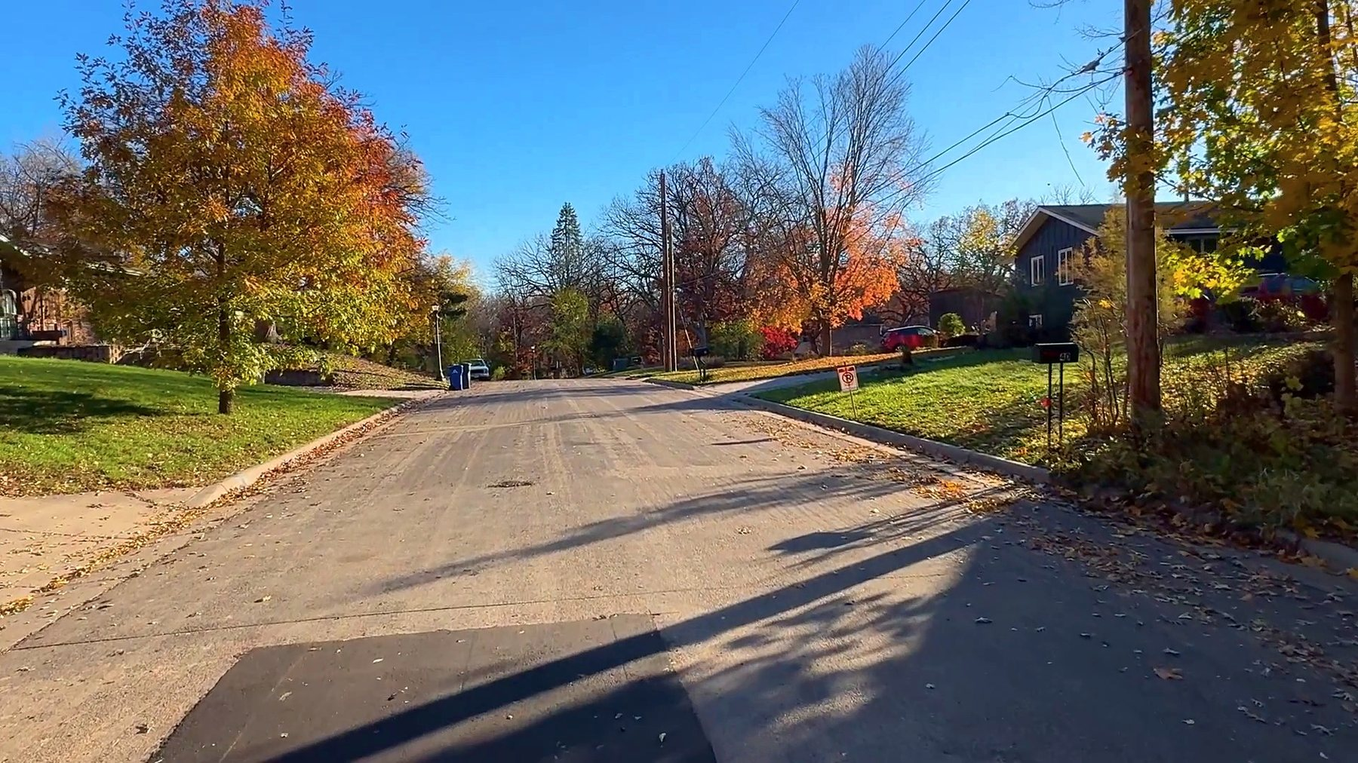
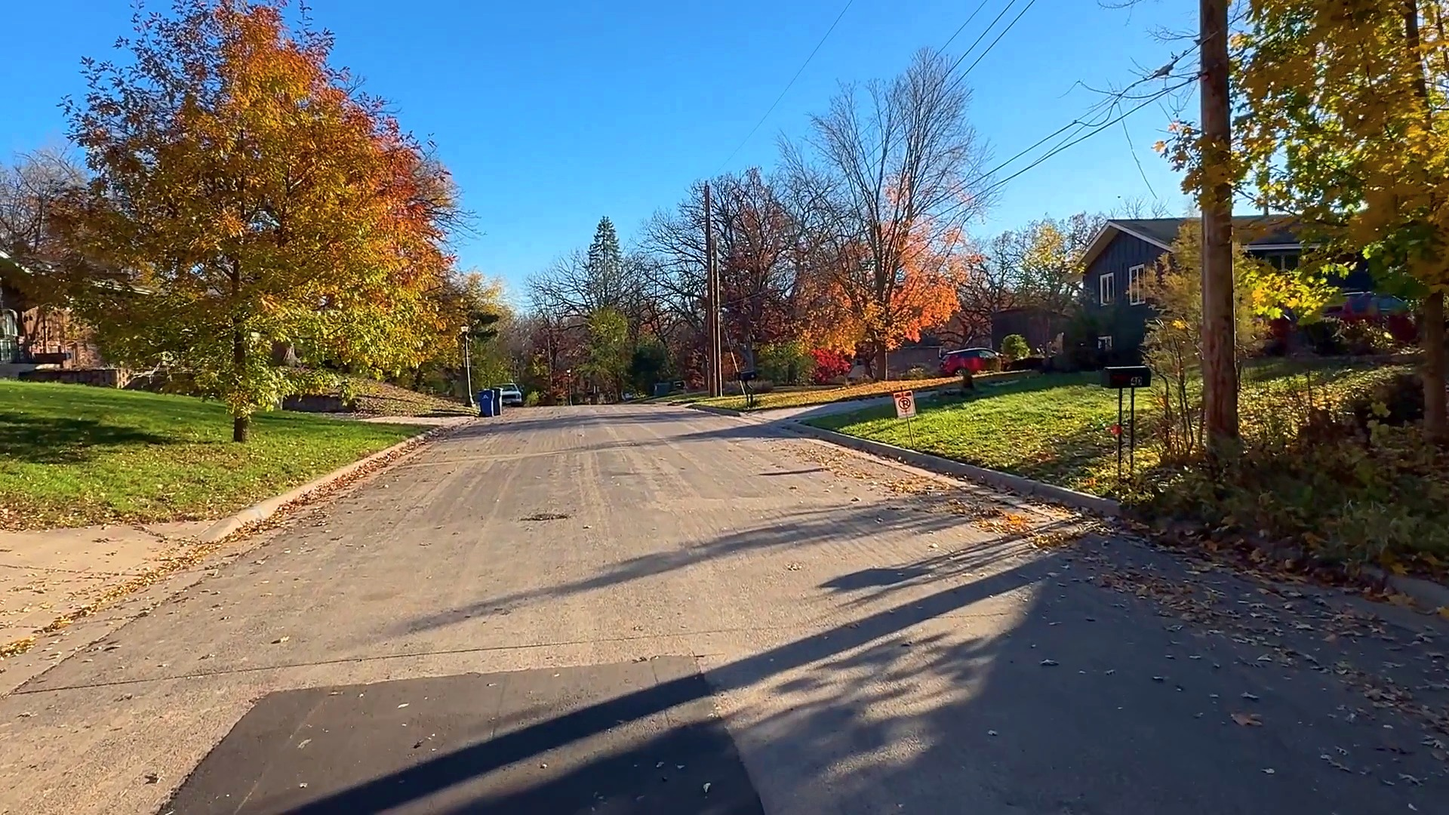
Clean up the Battle Creek page after the first review.
Use the original street photo behind the name, drop the parking-lot shot, and shorten the captions to match the other neighborhood pages.

Changed region(s): [[0.4667, 0.3063, 0.4978, 0.337], [0.4356, 0.337, 0.4667, 0.3676]]

diff --git a/battle-creek-saint-paul/index.html b/battle-creek-saint-paul/index.html
@@ -8,10 +8,10 @@
 <!-- begin Pixel Code (Compass Lead Flow, real estate only) -->
 <script src="https://www.compass.com/cxlp/a.min.js" id="cxlp-ajs" data-client-id="dh30gl6zq3rg" async></script>
 <!-- end Pixel Code -->
-<meta name="description" content="A walking tour of 30 South B Street in Battle Creek, Saint Paul. Big lots, old oaks, the park, and a short drive to downtown and Suburban Avenue. The house is in contract. Call or text 952-258-3100." />
+<meta name="description" content="A walking tour of 30 South B Street in Battle Creek, Saint Paul. Big lots, old oaks, the park, and a short drive to downtown and Suburban Avenue. Call or text 952-258-3100." />
 
 <meta property="og:title" content="Living in Battle Creek, Saint Paul | 30 South B Street" />
-<meta property="og:description" content="A walking tour of 30 South B Street in Battle Creek, Saint Paul. Big lots, old oaks, the park, and a short drive to downtown and Suburban Avenue. The house is in contract. Call or text 952-258-3100." />
+<meta property="og:description" content="A walking tour of 30 South B Street in Battle Creek, Saint Paul. Big lots, old oaks, the park, and a short drive to downtown and Suburban Avenue. Call or text 952-258-3100." />
 <meta property="og:url" content="https://geoffreyserdar.com/battle-creek-saint-paul/" />
 <meta property="og:image" content="https://geoffreyserdar.com/battle-creek-saint-paul/img/battle-creek-saint-paul-og.jpg" />
 <meta property="og:type" content="website" />
@@ -20,7 +20,7 @@
 <meta property="og:image:alt" content="A Battle Creek street in fall, oaks over wide lawns" />
 <meta name="twitter:card" content="summary_large_image" />
 <meta name="twitter:title" content="Living in Battle Creek, Saint Paul | 30 South B Street" />
-<meta name="twitter:description" content="A walking tour of 30 South B Street in Battle Creek, Saint Paul. Big lots, old oaks, the park, and a short drive to downtown and Suburban Avenue. The house is in contract. Call or text 952-258-3100." />
+<meta name="twitter:description" content="A walking tour of 30 South B Street in Battle Creek, Saint Paul. Big lots, old oaks, the park, and a short drive to downtown and Suburban Avenue. Call or text 952-258-3100." />
 <meta name="twitter:image" content="https://geoffreyserdar.com/battle-creek-saint-paul/img/battle-creek-saint-paul-og.jpg" />
 
 <link href="https://fonts.googleapis.com/css2?family=Cormorant+Garamond:ital,wght@0,500;0,600;0,700;1,500&family=Inter:wght@400;500;600&family=Montserrat:wght@500;600&display=swap" rel="stylesheet">
@@ -835,17 +835,20 @@ body{padding-top:calc(52px + env(safe-area-inset-top))}
 <!-- /GS:TOPBAR -->
 
 <style>
-.bc-hero{position:relative;min-height:0;padding:32px 20px 40px;overflow:hidden;color:#FAF7EF}
-.bc-hero-bg{position:absolute;inset:0;background:#1F201C url("/battle-creek-saint-paul/img/battle-creek-fall-street-1.jpg") center 42%/cover no-repeat}
-.bc-hero-bg::after{content:"";position:absolute;inset:0;background:linear-gradient(180deg,rgba(31,32,28,.28) 0%,rgba(31,32,28,.72) 55%,rgba(31,32,28,.88) 100%)}
-.bc-hero .bc-hero-inner{position:relative;z-index:1;max-width:720px;margin:0 auto}
-.bc-hero::before{content:none}
-.bc-hero .hero-name,.bc-hero .stat-number{color:#FAF7EF}
-.bc-hero .hero-name span,.bc-hero .eyebrow{color:#C9A877}
-.bc-hero .hero-title,.bc-hero .stat-label,.bc-hero .bc-lead{color:#F6F0E6}
-.bc-hero a.stat-link .stat-number{color:#C9A877}
-.bc-hero .form-card{color:#1F201C;background:#FAF7EF}
-.bc-lead{font-size:17px;line-height:1.65;max-width:40rem;margin:0 auto 22px}
+.bc-photo{position:relative;height:340px;overflow:hidden;background:#1F201C;display:flex;align-items:flex-end}
+.bc-hero-img{position:absolute;inset:0;width:100%;height:100%;object-fit:cover;object-position:center 42%}
+.bc-hero-scrim{position:absolute;inset:0;background:linear-gradient(180deg,rgba(31,32,28,.12),rgba(31,32,28,.38));pointer-events:none}
+.bc-photo-copy{position:relative;z-index:1;padding:24px 32px 22px;max-width:720px}
+.bc-photo .eyebrow,.bc-photo .hero-title{color:#F6F0E6}
+.bc-photo .hero-name{color:#FAF7EF;margin-bottom:6px}
+.bc-photo .hero-name span{color:#C9A877}
+@media (max-width:760px){.bc-photo{height:280px}.bc-photo-copy{padding:18px 20px 16px}}
+.bc-lead{font-size:16px;line-height:1.7;max-width:40rem;margin:0 auto 28px}
+.fact-list{list-style:none;margin:8px 0 0;padding:0}
+.fact-list li{font-size:16px;line-height:1.7;color:var(--mid);padding:12px 0;border-top:1px solid rgba(77,72,57,.15)}
+.fact-list li:last-child{border-bottom:1px solid rgba(77,72,57,.15)}
+.bc-hero-inner{max-width:640px;margin:0 auto}
+section.hero{min-height:0;padding-top:36px;padding-bottom:28px}
 .bc-strip{display:flex;gap:8px;overflow-x:auto;padding:8px 16px 0;-webkit-overflow-scrolling:touch}
 .bc-strip img{height:168px;width:auto;flex:0 0 auto;border-radius:10px;object-fit:cover}
 @media(min-width:800px){.bc-strip{padding:12px 32px 0;justify-content:center}.bc-strip img{height:220px}}
@@ -891,7 +894,7 @@ body{padding-top:calc(52px + env(safe-area-inset-top))}
 .es-thumbs img{width:84px;height:64px;object-fit:cover;border-radius:8px}
 .es-owners{margin:0;background:#FAF7EF}
 .es-owners img{width:100%;max-height:520px;object-fit:cover;object-position:center 20%;display:block}
-.es-owners figcaption{padding:12px 18px 0;font:600 15px/1.4 'Cormorant Garamond',serif;color:#1F201C}
+.es-owners figcaption{display:none}
 .bc-paint{display:flex;align-items:center;gap:8px;margin-top:12px;font-size:14px;line-height:1.45;color:#4D4839}
 .swatch{width:22px;height:22px;border-radius:4px;border:1px solid rgba(31,32,28,.25);flex:none}
 .bc-pin{background:#6E5228;color:#FAF7EF;border:2px solid #FAF7EF;border-radius:50%;font:700 13px/24px Inter,sans-serif;text-align:center;box-shadow:0 1px 4px rgba(31,32,28,.4)}
@@ -903,14 +906,18 @@ body{padding-top:calc(52px + env(safe-area-inset-top))}
 </style>
 
 <!-- HERO -->
-<section class="hero bc-hero">
-  <div class="bc-hero-bg"></div>
-  <div class="bc-hero-inner">
+<section class="bc-photo" aria-label="Fall trees on a Battle Creek street">
+  <img class="bc-hero-img" src="/battle-creek-saint-paul/img/battle-creek-fall-street-1.jpg" width="1920" height="1080" alt="Fall trees along a Battle Creek street">
+  <div class="bc-hero-scrim"></div>
+  <div class="bc-photo-copy">
     <p class="eyebrow">Serdar+Partners at Compass</p>
     <h1 class="hero-name">Geoffrey<span>Serdar</span></h1>
     <p class="hero-title">Battle Creek &nbsp;·&nbsp; Saint Paul &nbsp;·&nbsp; District 1</p>
+  </div>
+</section>
+<section class="hero">
+  <div class="bc-hero-inner">
     <p class="bc-lead">This is the walking tour of 30 South B Street. Big lots. Old oaks. Fall color. Out here, it doesn&rsquo;t actually feel like the rest of St. Paul.</p>
-
     <div class="hero-stats">
       <div class="stat"><span class="stat-number">14+</span><span class="stat-label">Years</span></div>
       <div class="stat"><span class="stat-number">360+</span><span class="stat-label">Families Served</span></div>
@@ -952,11 +959,10 @@ body{padding-top:calc(52px + env(safe-area-inset-top))}
   </div>
 </section>
 
-<div class="bc-strip" aria-label="Photos from the tour">
-  <img src="/battle-creek-saint-paul/img/battle-creek-fall-street-2.jpg" width="1800" height="1012" alt="Another Battle Creek street in fall, lawns and oaks along the block" />
-  <img src="/battle-creek-saint-paul/img/ha-tien-storefront.jpg" width="1800" height="1012" alt="The Ha Tien Super Market building and parking lot" />
-  <img src="/battle-creek-saint-paul/img/los-ocampo-food.jpg" width="1800" height="797" alt="A spread of tacos, seafood, and plates from Los Ocampo" />
-  <img src="/battle-creek-saint-paul/img/downtown-st-paul-skyline.jpg" width="1800" height="1001" alt="The downtown St. Paul skyline across the river" />
+<div class="bc-strip" aria-label="Street, food, and the downtown skyline">
+  <img src="/battle-creek-saint-paul/img/battle-creek-fall-street-2.jpg" width="1920" height="1080" alt="Fall trees and wide lawns on a Battle Creek street" />
+  <img src="/battle-creek-saint-paul/img/los-ocampo-food.jpg" width="1800" height="797" alt="Plates of food from Los Ocampo" />
+  <img src="/battle-creek-saint-paul/img/downtown-st-paul-skyline.jpg" width="1800" height="1001" alt="The downtown St. Paul skyline" />
 </div>
 
 <div class="divider"></div>
@@ -970,8 +976,7 @@ body{padding-top:calc(52px + env(safe-area-inset-top))}
     </ol>
   </nav>
   <h2 class="section-headline">30 South B Street, and the places around it.</h2>
-  <p class="section-body">The house is in contract. The close is estimated around November 20. There is no price on this page.</p>
-  <p class="section-body tour-invite">If you are looking here, ask me what the week actually feels like. If this is your home, ask how its rooms, and the blocks around them, could be walked the way this tour does. Call or text <a href="sms:+19522583100">952-258-3100</a>. If you are thinking about selling, <a href="#sv-offer">tell me about your home</a>.</p>
+  <p class="section-body">If you are curious about this house, let me know. If you are looking here, ask what the week actually feels like. If this is your home, ask how its rooms, and the blocks around them, could be walked the way this tour does. Call or text <a href="sms:+19522583100">952-258-3100</a>. If you are thinking about selling, <a href="#sv-offer">tell me about your home</a>.</p>
 </div>
 
 <div class="tour-videos" id="bcTourVideo" data-youtube-id="">
@@ -1024,30 +1029,21 @@ body{padding-top:calc(52px + env(safe-area-inset-top))}
   <div class="es-grid">
     <article class="es-card">
       <div class="es-media es-type">
-        <p class="es-type-tag">In contract</p>
+        <p class="es-type-tag">The tour</p>
         <p class="es-type-name">30 South B</p>
       </div>
       <div class="es-body">
         <h3 class="es-name">The tour home</h3>
-        <p class="es-addr">30 S B St, St. Paul 55106</p>
-        <p class="es-line">This is the house I walk through. It is in contract. The close is estimated around November 20. No price.</p>
-        <p class="bc-paint"><span class="swatch" style="background:rgb(230,223,211)" aria-hidden="true"></span> The paint in the tour is Sherwin-Williams Shoji White, SW 7042.</p>
+        <p class="es-addr">30 S B St</p>
+        <p class="es-line">If you&rsquo;re curious about this house, let me know.</p>
       </div>
     </article>
     <article class="es-card">
-      <div class="es-media"><img src="/battle-creek-saint-paul/img/battle-creek-fall-street-1.jpg" width="1800" height="1012" alt="A Battle Creek street in fall, oaks turning color over wide lawns" loading="lazy" decoding="async"></div>
+      <div class="es-media"><img src="/battle-creek-saint-paul/img/battle-creek-fall-street-2.jpg" width="1920" height="1080" alt="Fall trees and wide lawns on a Battle Creek street" loading="lazy" decoding="async"></div>
       <div class="es-body">
         <h3 class="es-name">The streets around South B</h3>
         <p class="es-addr">Around S B St</p>
-        <p class="es-line">Big lots. Old oaks. Fall color on the lawns. That is the feeling of these blocks.</p>
-      </div>
-    </article>
-    <article class="es-card">
-      <div class="es-media"><img src="/battle-creek-saint-paul/img/battle-creek-fall-street-2.jpg" width="1800" height="1012" alt="Fall color and wide lawns on a Battle Creek block" loading="lazy" decoding="async"></div>
-      <div class="es-body">
-        <h3 class="es-name">Same blocks, a little farther</h3>
-        <p class="es-addr">Around S B St</p>
-        <p class="es-line">Another look down the street. The lots stay big. The trees do the work.</p>
+        <p class="es-line">Big lots. Old oaks. Fall color.</p>
       </div>
     </article>
     <article class="es-card">
@@ -1055,7 +1051,7 @@ body{padding-top:calc(52px + env(safe-area-inset-top))}
       <div class="es-body">
         <h3 class="es-name">Battle Creek Regional Park</h3>
         <p class="es-addr">Lower Afton Rd and McKnight Rd &middot; about 5 min</p>
-        <p class="es-line">The amenity people feel every week. Trails. Cross-country skiing on machine-made snow. A sledding hill. About a 5 minute drive.</p>
+        <p class="es-line">Trails, skiing, and a sledding hill.</p>
       </div>
     </article>
     <article class="es-card">
@@ -1066,7 +1062,7 @@ body{padding-top:calc(52px + env(safe-area-inset-top))}
       <div class="es-body">
         <h3 class="es-name">Battle Creek Recreation Center</h3>
         <p class="es-addr">75 Winthrop St. S., Saint Paul, MN 55119</p>
-        <p class="es-line">The rec center and the neighborhood schools are part of the week out here.</p>
+        <p class="es-line">The rec center and the neighborhood schools.</p>
       </div>
     </article>
     <article class="es-card">
@@ -1074,7 +1070,7 @@ body{padding-top:calc(52px + env(safe-area-inset-top))}
       <div class="es-body">
         <h3 class="es-name">Regions Hospital</h3>
         <p class="es-addr">640 Jackson St &middot; about 9 min</p>
-        <p class="es-line">HealthPartners. St. Paul&rsquo;s Level I Trauma Center. About a 9 minute drive.</p>
+        <p class="es-line">St. Paul&rsquo;s Level I trauma center.</p>
       </div>
     </article>
     <article class="es-card es-wide">
@@ -1082,7 +1078,7 @@ body{padding-top:calc(52px + env(safe-area-inset-top))}
       <div class="es-body">
         <h3 class="es-name">Downtown St. Paul</h3>
         <p class="es-addr">About 11 minutes &middot; a quick hop to I-94</p>
-        <p class="es-line">A short drive downtown. And a quick hop to I-94.</p>
+        <p class="es-line">A quick hop to I-94.</p>
       </div>
     </article>
   </div>
@@ -1103,7 +1099,7 @@ body{padding-top:calc(52px + env(safe-area-inset-top))}
       <div class="es-body">
         <h3 class="es-name">1 &middot; Los Ocampo</h3>
         <p class="es-addr">1751 Suburban Ave &middot; about 3 min</p>
-        <p class="es-line">A long-running Mexican restaurant, under a mile away.</p>
+        <p class="es-line">A long-running Mexican restaurant.</p>
       </div>
     </article>
     <article class="es-card">
@@ -1138,23 +1134,15 @@ body{padding-top:calc(52px + env(safe-area-inset-top))}
       <div class="es-body">
         <h3 class="es-name">4 &middot; Supermercado Loma Bonita</h3>
         <p class="es-addr">800 White Bear Ave N &middot; about 6 min</p>
-        <p class="es-line">A family-run Mexican market, with a bakery and pan dulce, and a restaurant. The family&rsquo;s stores began in 2007. This St. Paul store opened in 2017.</p>
+        <p class="es-line">Bakery, pan dulce, and a restaurant.</p>
       </div>
     </article>
     <article class="es-card es-wide">
-      <div class="es-media es-media-wide"><img src="/battle-creek-saint-paul/img/ha-tien-storefront.jpg" width="1800" height="1012" alt="Ha Tien Super Market, in a low dark building with a full parking lot" loading="lazy" decoding="async"></div>
-      <div class="es-thumbs">
-        <img src="/battle-creek-saint-paul/img/ha-tien-deli-roast-meats.jpg" width="1360" height="765" alt="Roast pork and duck hanging in the Ha Tien deli case" loading="lazy" decoding="async">
-        <img src="/battle-creek-saint-paul/img/ha-tien-bakery-case.jpg" width="1800" height="1012" alt="Baked goods in the Ha Tien case" loading="lazy" decoding="async">
-      </div>
-      <figure class="es-owners">
-        <img src="/battle-creek-saint-paul/img/ha-tien-owners-son-ne-dao.jpg" width="1240" height="815" alt="Son and Ne Dao standing in an aisle at Ha Tien" loading="lazy" decoding="async">
-        <figcaption>Son &amp; Ne Dao, owners since 1996</figcaption>
-      </figure>
+      <div class="es-media"><img src="/battle-creek-saint-paul/img/ha-tien-owners-son-ne-dao.jpg" width="1240" height="815" alt="Son and Ne Dao at Ha Tien" loading="lazy" decoding="async"></div>
       <div class="es-body">
         <h3 class="es-name">5 &middot; Ha Tien Super Market</h3>
         <p class="es-addr">1959 Suburban Ave &middot; about 4 min</p>
-        <p class="es-line">The last stop on the tour. Deli, roast pork and duck, and b&aacute;nh m&igrave; made to order. The building opened as a Byerly&rsquo;s in 1971 and closed in March 2016. Son and Ne Dao opened their second Ha Tien here on November 29, 2016. They took over Son&rsquo;s parents&rsquo; grocery in 1996. Son is from Vietnam. Ne is from Cambodia. The store is named for H&agrave; Ti&ecirc;n, the city where Son was born.</p>
+        <p class="es-line">Son &amp; Ne Dao, owners since 1996.</p>
       </div>
     </article>
   </div>
@@ -1170,21 +1158,18 @@ body{padding-top:calc(52px + env(safe-area-inset-top))}
       <div class="es-media"><img src="/battle-creek-saint-paul/img/kaposia-village-1846.jpg" width="640" height="401" alt="An 1846 painting of Kaposia, a Dakota village along the Mississippi" loading="lazy" decoding="async"></div>
       <div class="es-body">
         <h3 class="es-name">Kaposia, 1846</h3>
-        <p class="es-line">In 1842, Battle Creek took its name from a clash between Dakota and Ojibwe people near the creek. The Kaposia band of Mdewakanton Dakota had lived near Pig&rsquo;s Eye Lake from about 1775 into the early 1800s.</p>
       </div>
     </article>
     <article class="es-card">
       <div class="es-media"><img src="/battle-creek-saint-paul/img/burlington-line-1891.jpg" width="579" height="382" alt="An 1891 photograph of a railroad bridge over a river" loading="lazy" decoding="async"></div>
       <div class="es-body">
         <h3 class="es-name">The Burlington line, 1891</h3>
-        <p class="es-line">In the 1860s the Chicago, Milwaukee and St. Paul line ran along Point Douglas Road. In the late 1880s the Chicago, Burlington and Northern laid tracks through here. This is an 1891 view of a bridge on that line. St. Paul annexed this land in 1872, 1885, and 1887.</p>
       </div>
     </article>
     <article class="es-card">
       <div class="es-media"><img src="/battle-creek-saint-paul/img/st-paul-1874.jpg" width="1800" height="670" alt="An 1874 view of downtown St. Paul from the river bluffs" loading="lazy" decoding="async"></div>
       <div class="es-body">
         <h3 class="es-name">St. Paul from the bluffs, 1874</h3>
-        <p class="es-line">Trains ran into downtown St. Paul. In 1886 a St. Paul and Boston syndicate, the Union Land Company, bought about 1,200 acres and platted Burlington Heights. Two small stations sat about a mile apart. Few houses went up at first.</p>
       </div>
     </article>
     <article class="es-card">
@@ -1194,7 +1179,7 @@ body{padding-top:calc(52px + env(safe-area-inset-top))}
       </div>
       <div class="es-body">
         <h3 class="es-name">Highwood</h3>
-        <p class="es-line">Highwood is named for the Highwood station. It is the 1880s railroad-suburb story, just south of these blocks. Most of District 1 filled in after World War II, with 1960s neighborhoods on larger lots near the bluffs and the park.</p>
+        <p class="es-line">Named for the Highwood station.</p>
       </div>
     </article>
     <article class="es-card es-wide">
@@ -1211,11 +1196,27 @@ body{padding-top:calc(52px + env(safe-area-inset-top))}
       </div>
       <div class="es-body">
         <h3 class="es-name">Eastview, Conway, Battle Creek, Highwood</h3>
-        <p class="es-line">Today this is St. Paul&rsquo;s District 1. Those four neighborhoods, plus Battle Creek Regional Park. The city draws the line around the whole district. Battle Creek itself does not have its own official boundary.</p>
+        <p class="es-line">Eastview, Conway, Battle Creek, and Highwood.</p>
       </div>
     </article>
   </div>
 </section>
+
+<div class="section" id="facts">
+  <p class="section-eyebrow">Worth knowing</p>
+  <h2 class="section-headline">The short version.</h2>
+  <ul class="fact-list">
+    <li>District 1 is Eastview, Conway, Battle Creek, and Highwood, plus the regional park. Battle Creek has no separate city boundary.</li>
+    <li>The park is about 5 minutes, by Lower Afton and McKnight. Trails, machine-made-snow skiing, a sledding hill.</li>
+    <li>Regions Hospital is about 9 minutes, at 640 Jackson Street. HealthPartners. St. Paul&rsquo;s Level I trauma center.</li>
+    <li>Downtown is about 11 minutes. A quick hop to I-94.</li>
+    <li>Ha Tien is my usual stop. Los Ocampo, Tea House, Sabores, and Loma Bonita are nearby options, not my personal favorites.</li>
+    <li>Ha Tien, 1959 Suburban, about 4 minutes. Deli, roast pork and duck, b&aacute;nh m&igrave; made to order. Son and Ne Dao have run it since 1996. The building was a Byerly&rsquo;s from 1971 until March 2016. They opened here on November 29, 2016.</li>
+    <li>Loma Bonita, 800 White Bear Avenue North, about 6 minutes. Family-run. The stores began in 2007. This St. Paul store opened in 2017.</li>
+    <li>The creek was named in 1842 for a clash between Dakota and Ojibwe people. It runs toward Pig&rsquo;s Eye Lake. Highwood, just south, is named for the Highwood station.</li>
+    <li>The walls in the tour are Sherwin-Williams Shoji White, SW 7042.</li>
+  </ul>
+</div>
 
 <div class="hoods">
   <p class="section-eyebrow">Where this page sits</p>
@@ -1270,7 +1271,7 @@ body{padding-top:calc(52px + env(safe-area-inset-top))}
 
 <link rel="stylesheet" href="https://cdnjs.cloudflare.com/ajax/libs/leaflet/1.9.4/leaflet.css" />
 <script src="https://cdnjs.cloudflare.com/ajax/libs/leaflet/1.9.4/leaflet.js"></script>
-<script type="application/json" id="bcPlacesData">[{"id": "home", "name": "30 South B Street", "short": "30 B", "kicker": "The tour home", "addr": "30 S B St, St. Paul 55106", "drive": "", "lat": 44.94035, "lng": -93.02669, "text": "The house in the tour. It is in contract. The close is estimated around November 20. No price.", "photos": []}, {"id": "streets", "name": "Battle Creek streets", "short": "The streets", "kicker": "Around South B", "addr": "Around S B St", "drive": "", "lat": 44.9404, "lng": -93.0267, "text": "It doesn't actually feel like St. Paul. Big lots, old oaks, and fall color.", "photos": [{"src": "/battle-creek-saint-paul/img/battle-creek-fall-street-1.jpg", "alt": "A Battle Creek street in fall, oaks turning color over wide lawns"}, {"src": "/battle-creek-saint-paul/img/battle-creek-fall-street-2.jpg", "alt": "Fall color and wide lawns on a Battle Creek block"}]}, {"id": "park", "name": "Battle Creek Regional Park", "short": "The park", "kicker": "About 5 min", "addr": "Lower Afton Rd and McKnight Rd", "drive": "about 5 min", "lat": 44.94037, "lng": -92.9966, "text": "The amenity people feel every week. Trails, cross-country skiing on machine-made snow, and a sledding hill.", "photos": [{"src": "/battle-creek-saint-paul/img/battle-creek-park-winter-trail.jpg", "alt": "A snowy trail through the trees at Battle Creek Regional Park"}]}, {"id": "rec", "name": "Battle Creek Recreation Center", "short": "Rec center", "kicker": "Close by", "addr": "75 Winthrop St. S., Saint Paul, MN 55119", "drive": "", "lat": 44.9386, "lng": -93.01286, "text": "The rec center and the neighborhood schools, at 75 Winthrop Street South.", "photos": []}, {"id": "regions", "name": "Regions Hospital", "short": "Regions", "kicker": "For work", "addr": "640 Jackson St", "drive": "about 9 min", "lat": 44.95585, "lng": -93.09469, "text": "HealthPartners. St. Paul's Level I Trauma Center. About a 9 minute drive.", "photos": [{"src": "/battle-creek-saint-paul/img/regions-hospital.jpg", "alt": "The Regions Hospital building and its HealthPartners sign"}]}, {"id": "downtown", "name": "Downtown St. Paul", "short": "Downtown", "kicker": "About 11 min", "addr": "Downtown", "drive": "about 11 min", "lat": 44.94463, "lng": -93.09711, "text": "A short drive downtown, and a quick hop to I-94.", "photos": [{"src": "/battle-creek-saint-paul/img/downtown-st-paul-skyline.jpg", "alt": "The downtown St. Paul skyline across the river"}]}, {"id": "ocampo", "num": 1, "name": "Los Ocampo", "short": "Los Ocampo", "kicker": "Nearby option", "addr": "1751 Suburban Ave", "drive": "about 3 min", "lat": 44.94979, "lng": -93.02624, "text": "A long-running Mexican restaurant, under a mile away.", "photos": [{"src": "/battle-creek-saint-paul/img/los-ocampo-storefront.jpg", "alt": "The Los Ocampo taqueria sign"}, {"src": "/battle-creek-saint-paul/img/los-ocampo-food.jpg", "alt": "A spread of tacos, seafood, and plates from Los Ocampo"}]}, {"id": "teahouse", "num": 2, "name": "Tea House", "short": "Tea House", "kicker": "Nearby option", "addr": "1676 Suburban Ave", "drive": "about 3 min", "lat": 44.95105, "lng": -93.02804, "text": "Sichuan cooking, and dim sum on the weekend.", "photos": [{"src": "/battle-creek-saint-paul/img/tea-house-fish.jpg", "alt": "A bowl of fish in a red chile sauce"}, {"src": "/battle-creek-saint-paul/img/tea-house-noodles.jpg", "alt": "A plate of noodles with meat and vegetables"}, {"src": "/battle-creek-saint-paul/img/tea-house-chicken.jpg", "alt": "Sesame chicken with broccoli"}]}, {"id": "sabores", "num": 3, "name": "Sabores Fresh Market", "short": "Sabores", "kicker": "Nearby option", "addr": "1990 Suburban Ave", "drive": "about 4 min", "lat": 44.9498, "lng": -93.01648, "text": "A Latin grocery. Butcher, bakery, produce, and a small restaurant.", "photos": [{"src": "/battle-creek-saint-paul/img/sabores-tacos.jpg", "alt": "Tacos on a plate with the Sabores Fresh Market mark"}, {"src": "/battle-creek-saint-paul/img/sabores-butcher.jpg", "alt": "A butcher counter with hanging cuts of meat"}, {"src": "/battle-creek-saint-paul/img/sabores-bakery.jpg", "alt": "Pastries in a bakery case"}]}, {"id": "loma", "num": 4, "name": "Supermercado Loma Bonita", "short": "Loma Bonita", "kicker": "Nearby option", "addr": "800 White Bear Ave N", "drive": "about 6 min", "lat": 44.96553, "lng": -93.02488, "text": "A family-run Mexican market with a bakery, pan dulce, and a restaurant. The family's stores began in 2007. This St. Paul store opened in 2017.", "photos": []}, {"id": "hatien", "num": 5, "name": "Ha Tien Super Market", "short": "Ha Tien", "kicker": "My usual stop", "addr": "1959 Suburban Ave", "drive": "about 4 min", "lat": 44.95045, "lng": -93.01799, "text": "The tour's last stop. Deli, roast pork and duck, and bánh mì made to order, in the old Byerly's building.", "photos": [{"src": "/battle-creek-saint-paul/img/ha-tien-storefront.jpg", "alt": "Ha Tien Super Market, in a low dark building with a full parking lot"}, {"src": "/battle-creek-saint-paul/img/ha-tien-deli-roast-meats.jpg", "alt": "Roast pork and duck hanging in the Ha Tien deli case"}, {"src": "/battle-creek-saint-paul/img/ha-tien-bakery-case.jpg", "alt": "Baked goods in the Ha Tien case"}, {"src": "/battle-creek-saint-paul/img/ha-tien-owners-son-ne-dao.jpg", "alt": "Son and Ne Dao standing in an aisle at Ha Tien"}]}, {"id": "pigseye", "name": "Pig's Eye Lake", "short": "Pig's Eye", "kicker": "The creek runs here", "addr": "Southwest of the neighborhood", "drive": "", "lat": 44.91053, "lng": -93.02913, "text": "Battle Creek runs toward Pig's Eye Lake and the Mississippi.", "photos": [{"src": "/battle-creek-saint-paul/img/pigs-eye-lake-pelicans.jpg", "alt": "White pelicans lifting off the water at Pig's Eye Lake"}]}, {"id": "highwood", "name": "Highwood", "short": "Highwood", "kicker": "Just south", "addr": "Highwood Hills", "drive": "", "lat": 44.91491, "lng": -93.0146, "text": "The 1880s railroad suburb, just south. Highwood is named for the Highwood station.", "photos": [{"src": "/battle-creek-saint-paul/img/burlington-line-1891.jpg", "alt": "An 1891 photograph of a railroad bridge over a river"}]}]</script>
+<script type="application/json" id="bcPlacesData">[{"id": "home", "name": "30 South B Street", "short": "30 B", "kicker": "The tour home", "addr": "30 S B St, St. Paul 55106", "drive": "", "lat": 44.94035, "lng": -93.02669, "text": "If you're curious about this house, let me know.", "photos": []}, {"id": "streets", "name": "Battle Creek streets", "short": "The streets", "kicker": "Around South B", "addr": "Around S B St", "drive": "", "lat": 44.9404, "lng": -93.0267, "text": "Big lots. Old oaks. Fall color.", "photos": [{"src": "/battle-creek-saint-paul/img/battle-creek-fall-street-1.jpg", "alt": "Fall trees along a Battle Creek street"}, {"src": "/battle-creek-saint-paul/img/battle-creek-fall-street-2.jpg", "alt": "Fall trees and wide lawns on a Battle Creek street"}]}, {"id": "park", "name": "Battle Creek Regional Park", "short": "The park", "kicker": "About 5 min", "addr": "Lower Afton Rd and McKnight Rd", "drive": "about 5 min", "lat": 44.94037, "lng": -92.9966, "text": "Trails, skiing, and a sledding hill.", "photos": [{"src": "/battle-creek-saint-paul/img/battle-creek-park-winter-trail.jpg", "alt": "A snowy trail through the trees at Battle Creek Regional Park"}]}, {"id": "rec", "name": "Battle Creek Recreation Center", "short": "Rec center", "kicker": "Close by", "addr": "75 Winthrop St. S., Saint Paul, MN 55119", "drive": "", "lat": 44.9386, "lng": -93.01286, "text": "The rec center and the neighborhood schools.", "photos": []}, {"id": "regions", "name": "Regions Hospital", "short": "Regions", "kicker": "For work", "addr": "640 Jackson St", "drive": "about 9 min", "lat": 44.95585, "lng": -93.09469, "text": "St. Paul's Level I trauma center.", "photos": [{"src": "/battle-creek-saint-paul/img/regions-hospital.jpg", "alt": "The Regions Hospital building and its HealthPartners sign"}]}, {"id": "downtown", "name": "Downtown St. Paul", "short": "Downtown", "kicker": "About 11 min", "addr": "Downtown", "drive": "about 11 min", "lat": 44.94463, "lng": -93.09711, "text": "A quick hop to I-94.", "photos": [{"src": "/battle-creek-saint-paul/img/downtown-st-paul-skyline.jpg", "alt": "The downtown St. Paul skyline across the river"}]}, {"id": "ocampo", "num": 1, "name": "Los Ocampo", "short": "Los Ocampo", "kicker": "Nearby option", "addr": "1751 Suburban Ave", "drive": "about 3 min", "lat": 44.94979, "lng": -93.02624, "text": "A long-running Mexican restaurant.", "photos": [{"src": "/battle-creek-saint-paul/img/los-ocampo-storefront.jpg", "alt": "The Los Ocampo taqueria sign"}, {"src": "/battle-creek-saint-paul/img/los-ocampo-food.jpg", "alt": "A spread of tacos, seafood, and plates from Los Ocampo"}]}, {"id": "teahouse", "num": 2, "name": "Tea House", "short": "Tea House", "kicker": "Nearby option", "addr": "1676 Suburban Ave", "drive": "about 3 min", "lat": 44.95105, "lng": -93.02804, "text": "Sichuan cooking, and weekend dim sum.", "photos": [{"src": "/battle-creek-saint-paul/img/tea-house-fish.jpg", "alt": "A bowl of fish in a red chile sauce"}, {"src": "/battle-creek-saint-paul/img/tea-house-noodles.jpg", "alt": "A plate of noodles with meat and vegetables"}, {"src": "/battle-creek-saint-paul/img/tea-house-chicken.jpg", "alt": "Sesame chicken with broccoli"}]}, {"id": "sabores", "num": 3, "name": "Sabores Fresh Market", "short": "Sabores", "kicker": "Nearby option", "addr": "1990 Suburban Ave", "drive": "about 4 min", "lat": 44.9498, "lng": -93.01648, "text": "Butcher, bakery, produce, and a small restaurant.", "photos": [{"src": "/battle-creek-saint-paul/img/sabores-tacos.jpg", "alt": "Tacos on a plate with the Sabores Fresh Market mark"}, {"src": "/battle-creek-saint-paul/img/sabores-butcher.jpg", "alt": "A butcher counter with hanging cuts of meat"}, {"src": "/battle-creek-saint-paul/img/sabores-bakery.jpg", "alt": "Pastries in a bakery case"}]}, {"id": "loma", "num": 4, "name": "Supermercado Loma Bonita", "short": "Loma Bonita", "kicker": "Nearby option", "addr": "800 White Bear Ave N", "drive": "about 6 min", "lat": 44.96553, "lng": -93.02488, "text": "Bakery, pan dulce, and a restaurant.", "photos": []}, {"id": "hatien", "num": 5, "name": "Ha Tien Super Market", "short": "Ha Tien", "kicker": "My usual stop", "addr": "1959 Suburban Ave", "drive": "about 4 min", "lat": 44.95045, "lng": -93.01799, "text": "Son & Ne Dao, owners since 1996.", "photos": [{"src": "/battle-creek-saint-paul/img/ha-tien-owners-son-ne-dao.jpg", "alt": "Son and Ne Dao at Ha Tien"}]}, {"id": "pigseye", "name": "Pig's Eye Lake", "short": "Pig's Eye", "kicker": "The creek runs here", "addr": "Southwest of the neighborhood", "drive": "", "lat": 44.91053, "lng": -93.02913, "text": "The creek runs toward the lake and the Mississippi.", "photos": [{"src": "/battle-creek-saint-paul/img/pigs-eye-lake-pelicans.jpg", "alt": "White pelicans lifting off the water at Pig's Eye Lake"}]}, {"id": "highwood", "name": "Highwood", "short": "Highwood", "kicker": "Just south", "addr": "Highwood Hills", "drive": "", "lat": 44.91491, "lng": -93.0146, "text": "Named for the Highwood station.", "photos": [{"src": "/battle-creek-saint-paul/img/burlington-line-1891.jpg", "alt": "An 1891 photograph of a railroad bridge over a river"}]}]</script>
 <script>
 (function () {
   var slot = document.getElementById('bcTourVideo');
